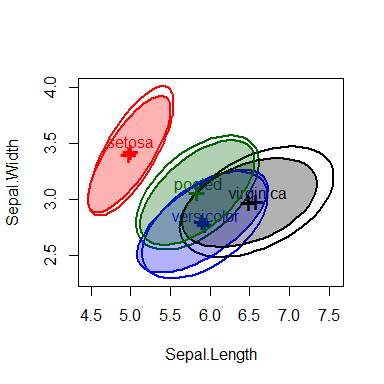
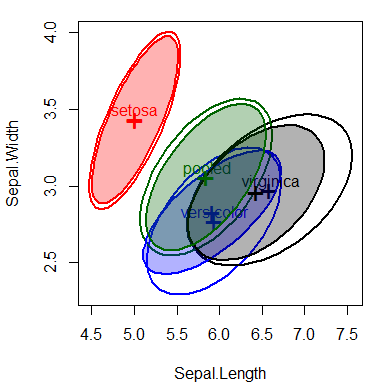
add candisc to README

diff --git a/README.md b/README.md
@@ -245,7 +245,9 @@ heplot(iris.mod, hypotheses=hyp,
 ### All pairwise HE plots
 
 All pairwise HE plots are produced using the `pairs()` method for MLM
-objects.
+objects.In the plot, note how the means of most pairs of variables are
+very highly correlated, in the order Setosa \< Versicolor \< Virginica,
+but this pattern doesn’t hold for relations with `Sepal.Width`.
 
 ``` r
 pairs(iris.mod, hypotheses=hyp, hyp.labels=FALSE,
@@ -254,16 +256,58 @@ pairs(iris.mod, hypotheses=hyp, hyp.labels=FALSE,
 
 <img src="man/figures/README-iris3-1.png" width="100%" />
 
+### Canonical discriminant view
+
+For more than two response variables, a multivariate effect can be
+viewed more simply by projecting the data into canonical space — the
+linear combinations of the responses which show the greatest differences
+among the group means relative to within-group scatter. The computations
+are performed with the [`candisc`](http://github.com/friendly/candisc)
+package, which has an `heplot.candisc()` method.
+
+``` r
+library(candisc)
+iris.can <- candisc(iris.mod) |> print()
+#> 
+#> Canonical Discriminant Analysis for Species:
+#> 
+#>    CanRsq Eigenvalue Difference  Percent Cumulative
+#> 1 0.96987   32.19193     31.907 99.12126     99.121
+#> 2 0.22203    0.28539     31.907  0.87874    100.000
+#> 
+#> Test of H0: The canonical correlations in the 
+#> current row and all that follow are zero
+#> 
+#>   LR test stat approx F numDF denDF   Pr(> F)    
+#> 1      0.02344  199.145     8   288 < 2.2e-16 ***
+#> 2      0.77797   13.794     3   145 5.794e-08 ***
+#> ---
+#> Signif. codes:  0 '***' 0.001 '**' 0.01 '*' 0.05 '.' 0.1 ' ' 1
+```
+
+The HE plot in canonical space shows that the differences among species
+are nearly entirely one-dimensional.
+
+``` r
+# HE plot in canonical space
+heplot(iris.can)
+```
+
+![](man/figures/README-iris-can-1.png)<!-- -->
+
+    #> Vector scale factor set to  43.914
+
 ### Covariance ellipses
 
 MANOVA relies on the assumption that within-group covariance matrices
 are all equal. It is useful to visualize these in the space of some of
 the predictors. `covEllipses()` provides this both for classical and
-robust estimates. The figure below shows these for the three Iris
-species and the pooled covariance matrix, which is the same as the **E**
-matrix used in MANOVA tests.
+robust (`method="mve"`) estimates. The figure below shows these for the
+three Iris species and the pooled covariance matrix, which is the same
+as the **E** matrix used in MANOVA tests.
 
 ``` r
+par(mar=c(4,4,1,1)+.1)
 covEllipses(iris[,1:4], iris$Species)
 covEllipses(iris[,1:4], iris$Species, 
             fill=TRUE, method="mve", add=TRUE, labels="")
